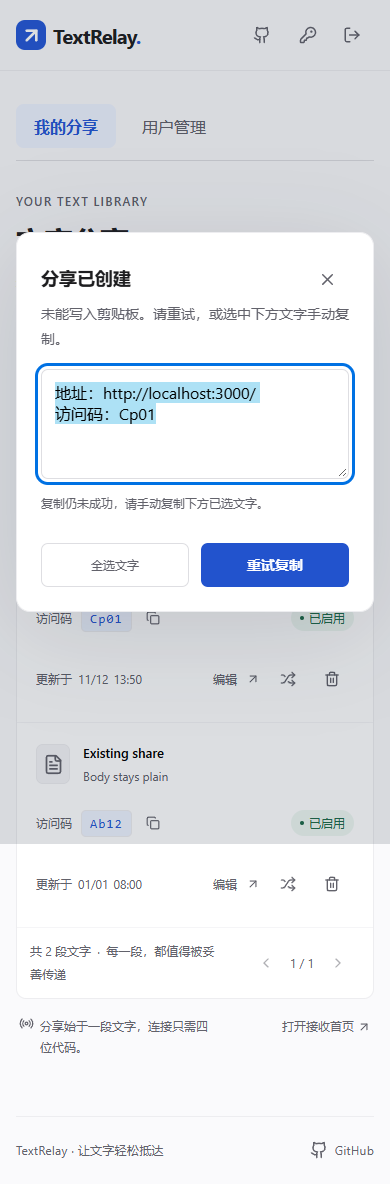
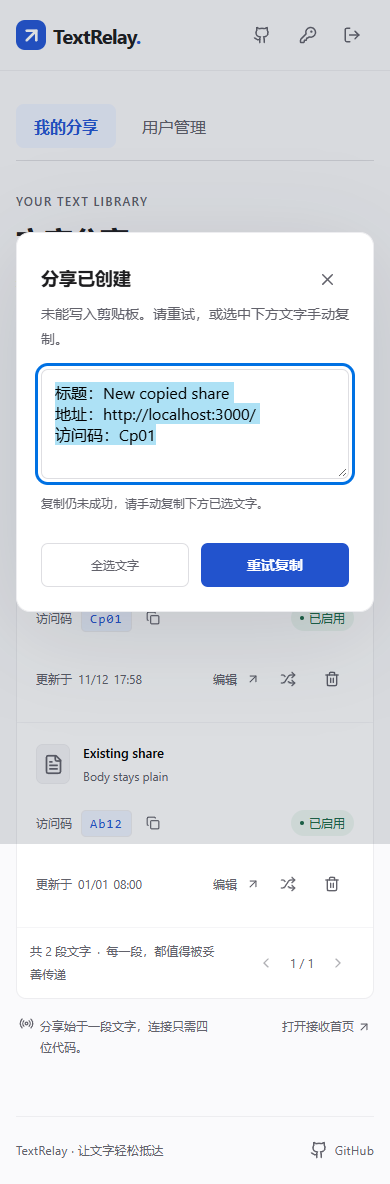
✨ feat(share): 在分享复制信息中加入标题

Changed region(s): [[0.1231, 0.3125, 0.6769, 0.375]]

diff --git a/tests/browser/share-copy.spec.ts b/tests/browser/share-copy.spec.ts
@@ -41,7 +41,8 @@ async function prepare(page: any, manual?: string) {
     await page.locator('#new-code').fill(manual);
   }
 }
-const message = (code: string) => `地址：http://localhost:3000/\n访问码：${code}`;
+const message = (code: string, title = 'New copied share') =>
+  `标题：${title}\n地址：http://localhost:3000/\n访问码：${code}`;
 
 for (const mobile of [false, true])
   test.describe(mobile ? 'touch mobile' : 'desktop', () => {
@@ -50,7 +51,7 @@ for (const mobile of [false, true])
       hasTouch: mobile,
       isMobile: mobile,
     });
-    test('creation copies the actual returned code during activation; list copies the same two lines; edit does not copy', async ({
+    test('creation copies the actual returned code during activation; list copies the same three lines; edit does not copy', async ({
       page,
       context,
     }) => {
@@ -98,6 +99,10 @@ for (const mobile of [false, true])
       expect([expected, expected.replace(/\n/g, '\r\n')]).toContain(native);
       await row.getByRole('button', { name: '复制分享链接和访问码 ' + code, exact: true }).click();
       await expect.poll(() => page.evaluate(() => (window as any).copyTexts.at(-1))).toBe(expected);
+      await page.getByRole('button', { name: '复制分享链接和访问码 Ab12', exact: true }).click();
+      await expect
+        .poll(() => page.evaluate(() => (window as any).copyTexts.at(-1)))
+        .toBe(message('Ab12', 'Existing share'));
       await page.evaluate(() => navigator.clipboard.writeText('keep on edit'));
       await row.getByRole('button', { name: '编辑', exact: true }).click();
       await page.locator('#title').fill('Edited without copying');
@@ -106,6 +111,13 @@ for (const mobile of [false, true])
         page.locator('.share-row').filter({ hasText: 'Edited without copying' }),
       ).toBeVisible();
       expect(await page.evaluate(() => navigator.clipboard.readText())).toBe('keep on edit');
+      const edited = page.locator('.share-row').filter({ hasText: 'Edited without copying' });
+      await edited
+        .getByRole('button', { name: '复制分享链接和访问码 ' + code, exact: true })
+        .click();
+      await expect
+        .poll(() => page.evaluate(() => (window as any).copyTexts.at(-1)))
+        .toBe(message(code, 'Edited without copying'));
     });
 
     test('denied automatic and list copy give accurate selectable fallback; retry works', async ({
@@ -169,7 +181,7 @@ for (const mobile of [false, true])
     });
   });
 
-test('missing Clipboard API keeps the successful share and both lines available for manual copying', async ({
+test('missing Clipboard API keeps the successful share and all three lines available for manual copying', async ({
   page,
 }) => {
   await login(page);

diff --git a/src/client/shareClipboard.ts b/src/client/shareClipboard.ts
@@ -1,5 +1,8 @@
-export function shareMessage(code: string, origin = location.origin): string {
-  return `地址：${new URL('/', origin).href}\n访问码：${code}`;
+export function shareMessage(
+  share: { title: string; code: string },
+  origin = location.origin,
+): string {
+  return `标题：${share.title}\n地址：${new URL('/', origin).href}\n访问码：${share.code}`;
 }
 
 export async function copyShareText(text: string): Promise<boolean> {
@@ -11,13 +14,13 @@ export async function copyShareText(text: string): Promise<boolean> {
   }
 }
 
-export function copyCreatedShare(share: Promise<{ code: string }>): Promise<boolean> {
+export function copyCreatedShare(
+  share: Promise<{ title: string; code: string }>,
+): Promise<boolean> {
   try {
     if (navigator.clipboard?.write && typeof ClipboardItem !== 'undefined') {
       // Start during the save gesture; WebKit can await the actual server-generated code.
-      const value = share.then(
-        ({ code }) => new Blob([shareMessage(code)], { type: 'text/plain' }),
-      );
+      const value = share.then((share) => new Blob([shareMessage(share)], { type: 'text/plain' }));
       // A permission rejection can precede the API result. Both rejections must be handled.
       void value.catch(() => {});
       return navigator.clipboard.write([new ClipboardItem({ 'text/plain': value })]).then(
@@ -29,7 +32,7 @@ export function copyCreatedShare(share: Promise<{ code: string }>): Promise<bool
     // Older implementations can reject a promised ClipboardItem synchronously.
   }
   return share.then(
-    ({ code }) => copyShareText(shareMessage(code)),
+    (share) => copyShareText(shareMessage(share)),
     () => false,
   );
 }

diff --git a/tests/browser/flows.spec.ts b/tests/browser/flows.spec.ts
@@ -108,7 +108,7 @@ test('desktop admin create, edit, search, toggle, rotate, reuse and delete', asy
   await settleMotion(page);
   await page.screenshot({ path: 'docs/evidence/manage-desktop.png', fullPage: true });
   await page.getByRole('button', { name: '新建分享', exact: true }).first().click();
-  await page.getByLabel('标题 仅在后台显示').fill('验收用分享');
+  await page.getByLabel('标题 随分享信息复制').fill('验收用分享');
   await page.getByRole('textbox', { name: /^正文/ }).fill('original\n  body');
   await page.getByRole('button', { name: '自定义', exact: true }).click();
   await page.getByLabel('访问码 四位字母或数字，区分大小写').fill('Ui01');
@@ -149,7 +149,7 @@ test('mobile layout, centered editor and keyboard dialog focus', async ({ page }
   expect(await page.evaluate(() => document.documentElement.scrollWidth <= innerWidth)).toBe(true);
   await page.getByRole('button', { name: '新建分享', exact: true }).first().click();
   await expect(page.getByRole('dialog', { name: '新建分享' })).toBeVisible();
-  await page.getByLabel('标题 仅在后台显示').fill('手机测试');
+  await page.getByLabel('标题 随分享信息复制').fill('手机测试');
   await settleMotion(page);
   await page.screenshot({ path: 'docs/evidence/editor-mobile.png', fullPage: false });
   expect(await page.evaluate(() => document.documentElement.scrollWidth <= innerWidth)).toBe(true);

diff --git a/tests/share-message.test.ts b/tests/share-message.test.ts
@@ -2,17 +2,17 @@ import { test } from 'node:test';
 import assert from 'node:assert/strict';
 import { shareMessage } from '../src/client/shareClipboard.js';
 
-test('share message contains the site homepage and the exact case-sensitive code', () => {
+test('share message includes the exact title, site homepage and case-sensitive code on three lines', () => {
   assert.equal(
-    shareMessage('Ab12', 'https://1.14.186.80'),
-    '地址：https://1.14.186.80/\n访问码：Ab12',
+    shareMessage({ title: '项目说明：第一版', code: 'Ab12' }, 'https://1.14.186.80'),
+    '标题：项目说明：第一版\n地址：https://1.14.186.80/\n访问码：Ab12',
   );
   assert.equal(
-    shareMessage('000a', 'https://share.example.com/manage'),
-    '地址：https://share.example.com/\n访问码：000a',
+    shareMessage({ title: 'Title & detail', code: '000a' }, 'https://share.example.com/manage'),
+    '标题：Title & detail\n地址：https://share.example.com/\n访问码：000a',
   );
   assert.equal(
-    shareMessage('zZ09', 'http://localhost:3000'),
-    '地址：http://localhost:3000/\n访问码：zZ09',
+    shareMessage({ title: '保留 标题空格', code: 'zZ09' }, 'http://localhost:3000'),
+    '标题：保留 标题空格\n地址：http://localhost:3000/\n访问码：zZ09',
   );
 });

diff --git a/src/client/main.tsx b/src/client/main.tsx
@@ -619,7 +619,7 @@ function Manage() {
                         aria-label={'复制分享链接和访问码 ' + share.code}
                         title="复制分享链接和访问码"
                         onClick={() => {
-                          const text = shareMessage(share.code);
+                          const text = shareMessage(share);
                           reportCopy(text, copyShareText(text));
                         }}
                       >
@@ -715,7 +715,7 @@ function Manage() {
           close={() => setEditor(null)}
           saved={(created) => {
             setEditor(null);
-            if (created) reportCopy(shareMessage(created.share.code), created.copied, true);
+            if (created) reportCopy(shareMessage(created.share), created.copied, true);
             else setToast('更改已保存');
             void load();
           }}
@@ -938,7 +938,7 @@ function Editor({
         <div className="drawer-body">
           <div className="editor-content">
             <label htmlFor="title">
-              标题 <span>仅在后台显示</span>
+              标题 <span>随分享信息复制</span>
             </label>
             <input
               id="title"
